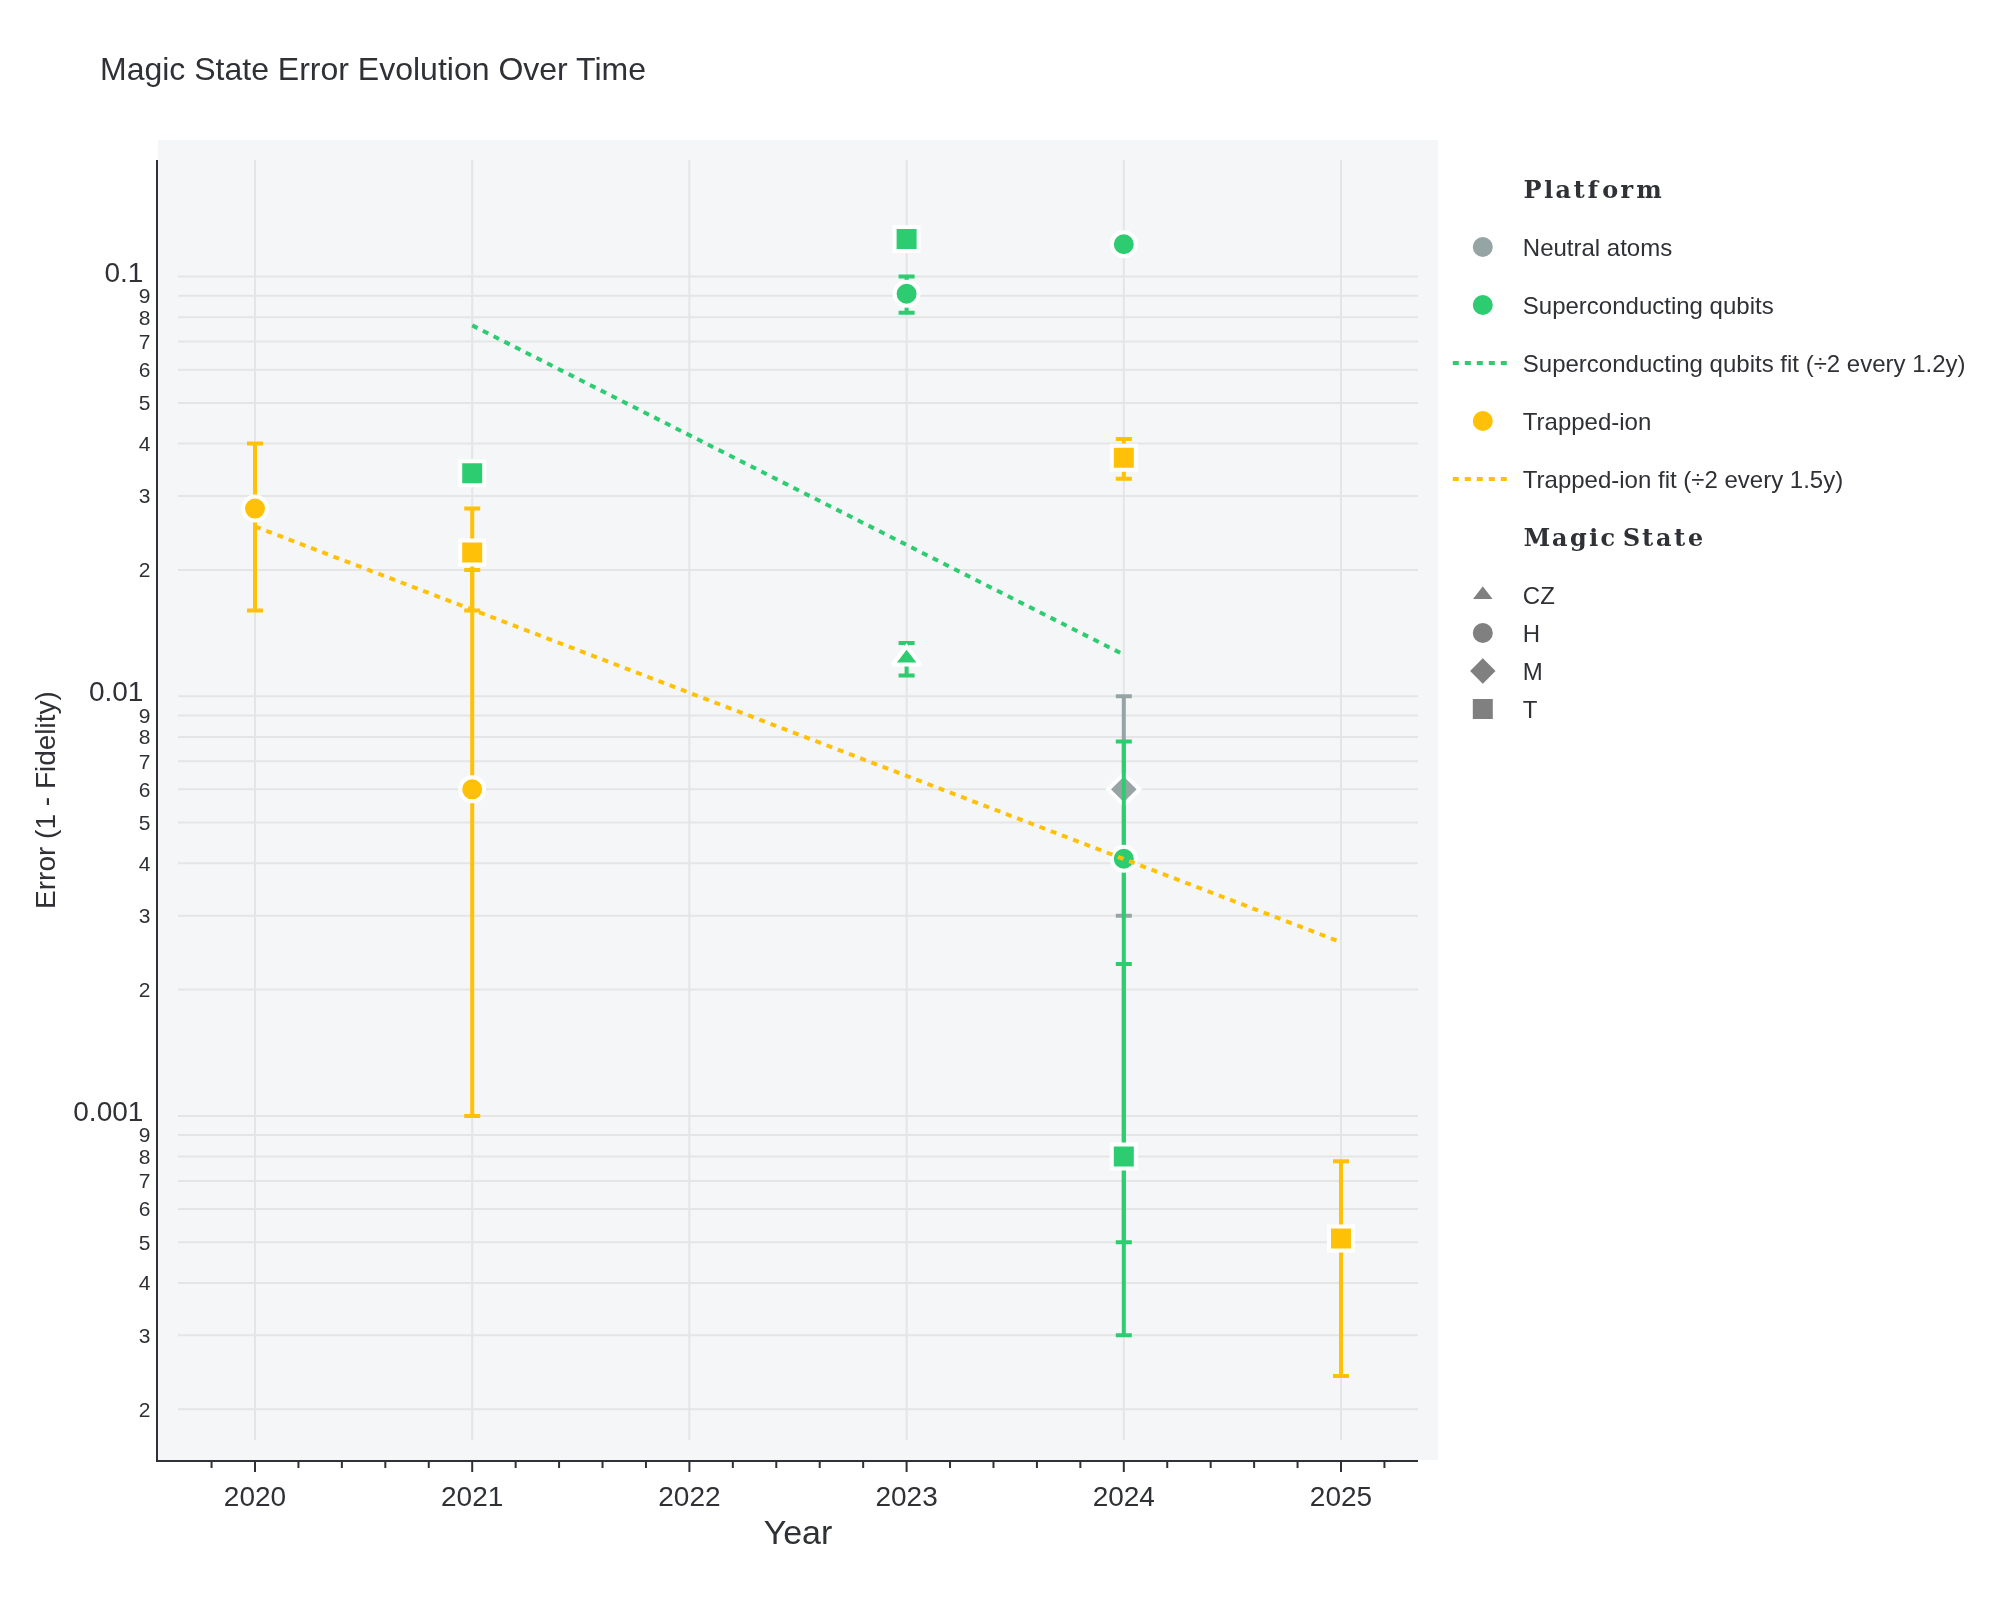
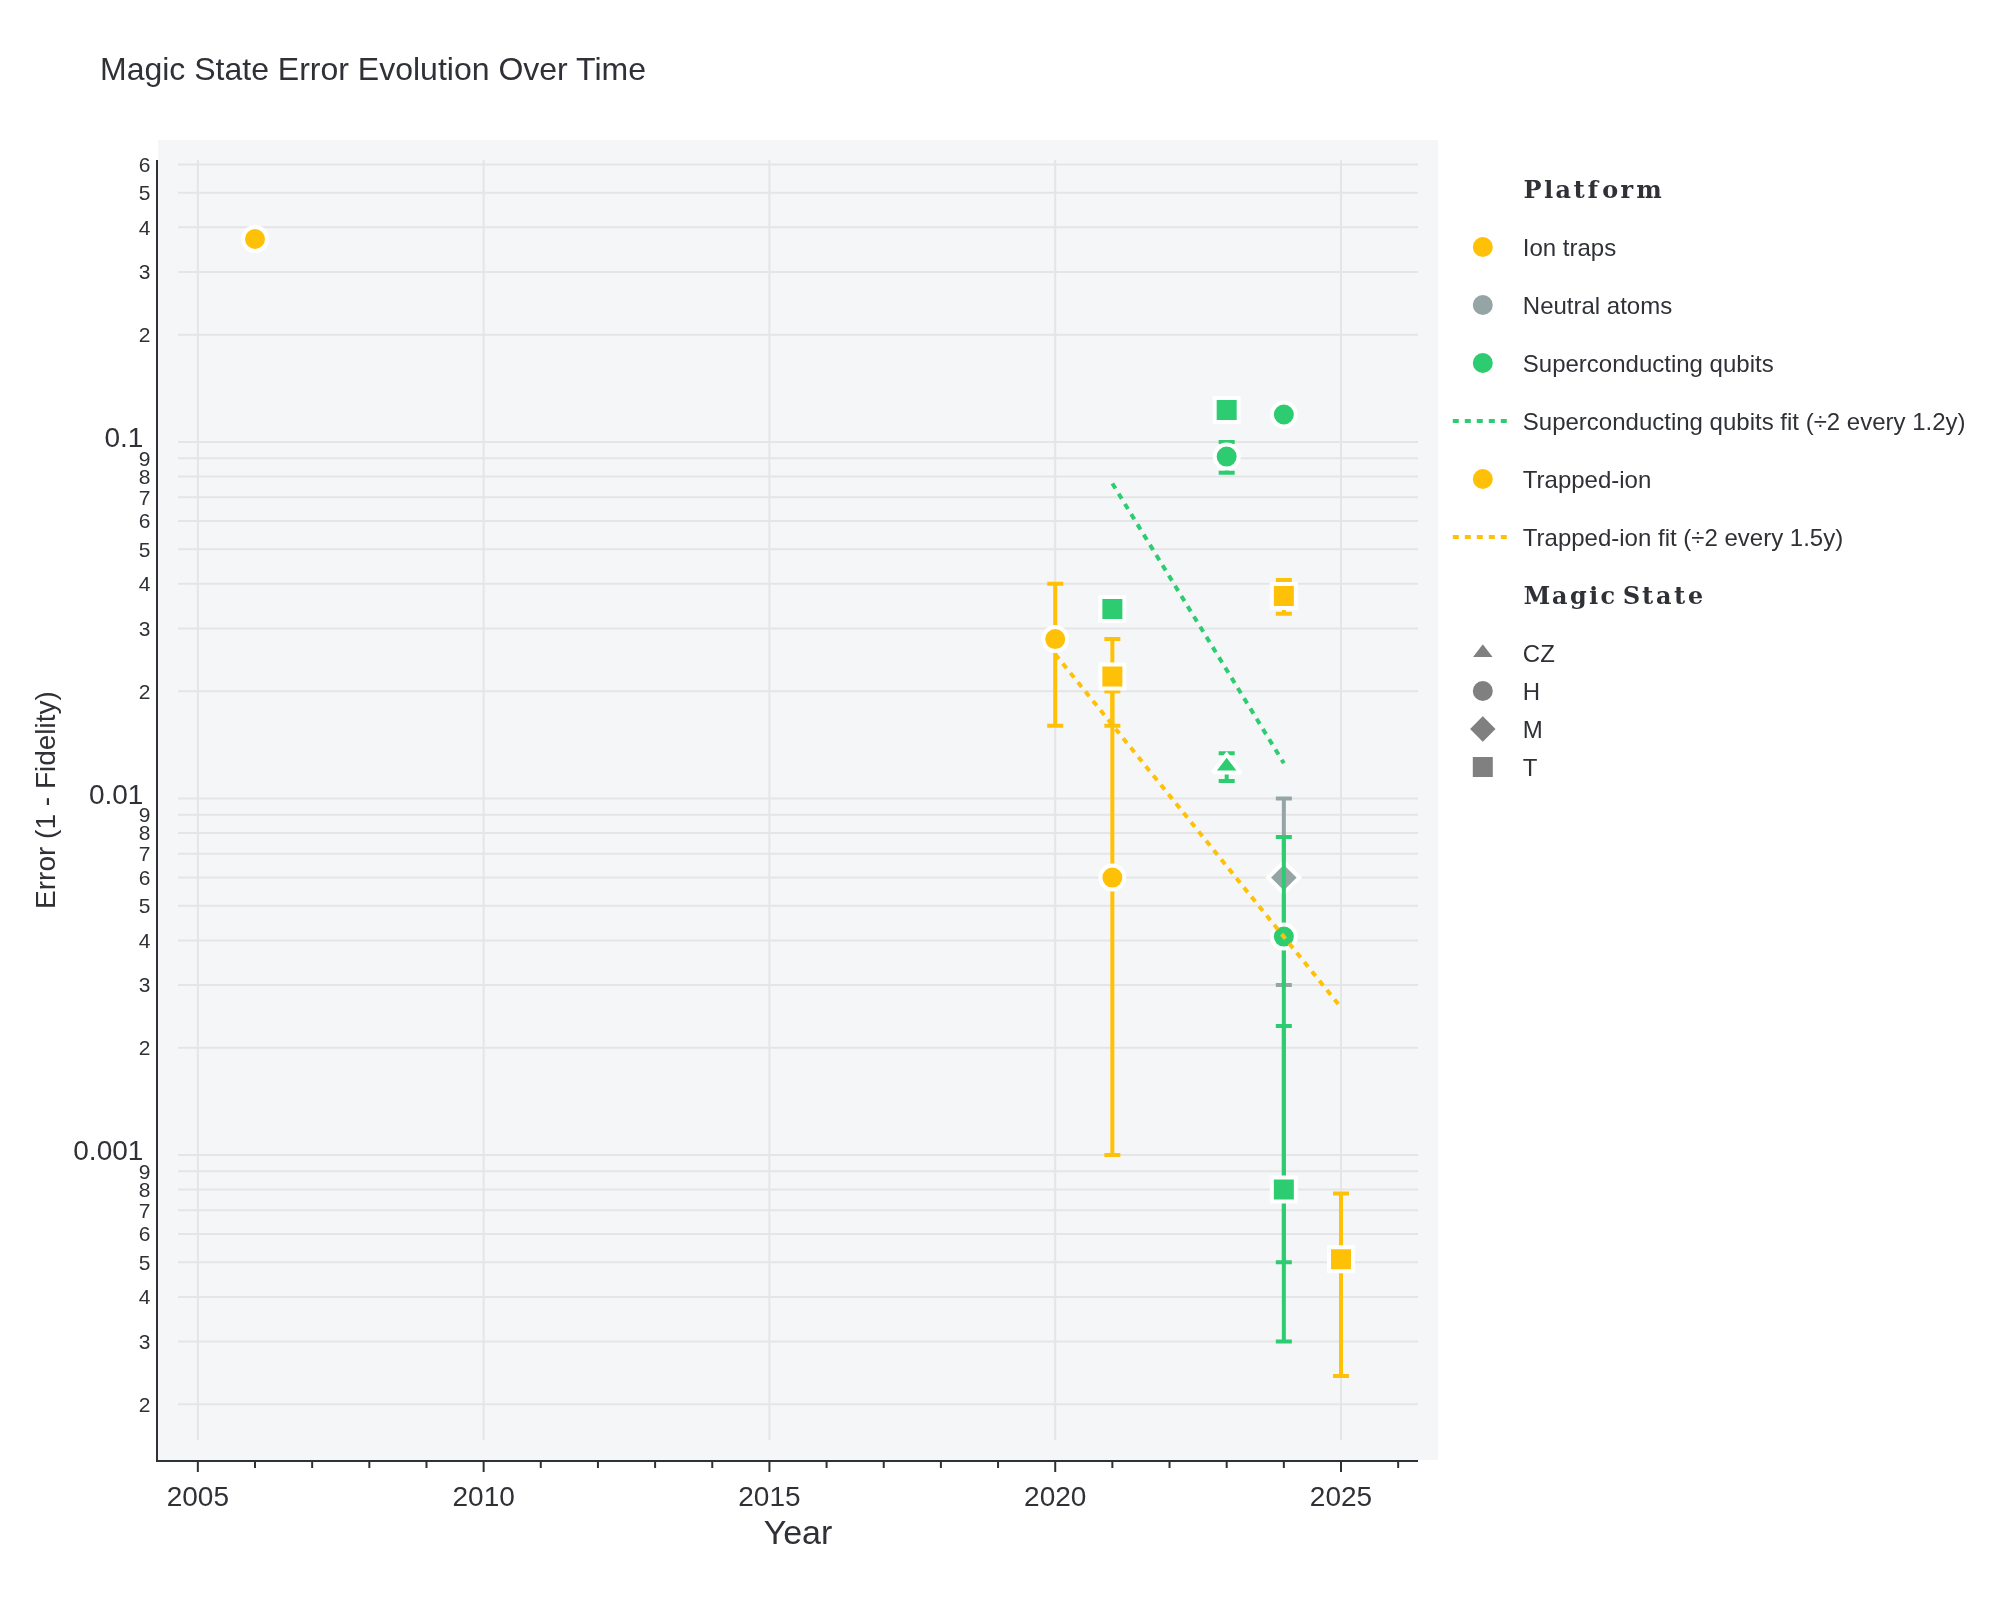
Update plots and README (#147)

diff --git a/out/js/msd_error_evolution_plot.js b/out/js/msd_error_evolution_plot.js
@@ -30,6 +30,95 @@ const msd_error_evolution_plotData = [
   {
     "customdata": [
       [
+        "",
+        "",
+        "Distillation",
+        "",
+        "https://doi.org/10.1038/nature05146"
+      ]
+    ],
+    "error_y": {
+      "array": [
+        0.015000000000000013
+      ],
+      "arrayminus": [
+        0.015000000000000013
+      ],
+      "color": "#FFC107",
+      "symmetric": false,
+      "thickness": 2,
+      "type": "data",
+      "width": 4
+    },
+    "hovertemplate": "<b>%{text}</b><br>Error: %{y:.4f}<br>Year: %{x}<br>Magic State: %{customdata[0]}<br>QEC Code: %{customdata[1]}<br>Experiment Type: %{customdata[2]}<br>Acceptance Rate: %{customdata[3]}%<br><a href='%{customdata[4]}' target='_blank'>Link</a><extra></extra>",
+    "legendgroup": "Ion traps",
+    "marker": {
+      "color": "#FFC107",
+      "line": {
+        "color": "white",
+        "width": 2
+      },
+      "size": 12,
+      "symbol": [
+        "circle"
+      ]
+    },
+    "mode": "markers",
+    "name": "Ion traps",
+    "showlegend": false,
+    "text": [
+      "Experimental purification of two-atom entanglement"
+    ],
+    "x": [
+      2006
+    ],
+    "y": [
+      0.371
+    ],
+    "type": "scatter",
+    "textfont": {
+      "family": "Arial"
+    },
+    "hoverlabel": {
+      "font": {
+        "family": "Arial"
+      }
+    }
+  },
+  {
+    "legendgroup": "Ion traps",
+    "legendrank": 1,
+    "marker": {
+      "color": "#FFC107",
+      "line": {
+        "color": "white",
+        "width": 2
+      },
+      "size": 12,
+      "symbol": "circle"
+    },
+    "mode": "markers",
+    "name": "Ion traps",
+    "showlegend": true,
+    "x": [
+      null
+    ],
+    "y": [
+      null
+    ],
+    "type": "scatter",
+    "textfont": {
+      "family": "Arial"
+    },
+    "hoverlabel": {
+      "font": {
+        "family": "Arial"
+      }
+    }
+  },
+  {
+    "customdata": [
+      [
         "|M>",
         "Steane",
         "Preparation and Distillation",
@@ -87,7 +176,7 @@ const msd_error_evolution_plotData = [
   },
   {
     "legendgroup": "Neutral atoms",
-    "legendrank": 1,
+    "legendrank": 2,
     "marker": {
       "color": "#95A5A6",
       "line": {
@@ -254,7 +343,7 @@ const msd_error_evolution_plotData = [
   },
   {
     "legendgroup": "Superconducting qubits",
-    "legendrank": 2,
+    "legendrank": 3,
     "marker": {
       "color": "#2ECC71",
       "line": {
@@ -284,7 +373,7 @@ const msd_error_evolution_plotData = [
     }
   },
   {
-    "legendrank": 3,
+    "legendrank": 4,
     "line": {
       "color": "#2ECC71",
       "dash": "dot",
@@ -423,7 +512,7 @@ const msd_error_evolution_plotData = [
   },
   {
     "legendgroup": "Trapped-ion",
-    "legendrank": 4,
+    "legendrank": 5,
     "marker": {
       "color": "#FFC107",
       "line": {
@@ -453,7 +542,7 @@ const msd_error_evolution_plotData = [
     }
   },
   {
-    "legendrank": 5,
+    "legendrank": 6,
     "line": {
       "color": "#FFC107",
       "dash": "dot",

diff --git a/README.md b/README.md
@@ -262,13 +262,13 @@ Magic states are crucial non-Clifford quantum states that enable universal fault
 - [Demonstration of fault-tolerant universal quantum gate operations](https://doi.org/10.1038/s41586-022-04721-1) (2021) - on Trapped-ion, QEC code: Steane, magic state: |H>, fidelity: 0.994-14+5, acceptance rate: 13.7%
 - [Logical Magic State Preparation with Fidelity beyond the Distillation Threshold on a Superconducting Quantum Processor](https://doi.org/10.1103/PhysRevLett.131.210603) (2023) - on Superconducting qubits, QEC code: Surface code, magic state: |H>, fidelity: 0.9090-9+9, acceptance rate: 73.41%
 - [Magic State Injection on IBM Quantum Processors Above the Distillation Threshold](https://arxiv.org/abs/2412.01446) (2024) - on Superconducting qubits, QEC code: Surface code, magic state: |H>, fidelity: 0.8806-2+2, acceptance rate: 36.3%
-- [Scaling and logic in the color code on a superconducting quantum processor](https://arxiv.org/abs/2412.14256) (2024) - on Superconducting qubits, QEC code: Steane, magic state: |H>, fidelity: 0.9959-37+38, acceptance rate: 74.6%, post-selected, Post-selected logical state tomography measurements
+- [Scaling and logic in the color code on a superconducting quantum processor](https://arxiv.org/abs/2412.14256) (2024) - on Superconducting qubits, QEC code: Steane, magic state: |H>, fidelity: 0.9959-37+38, acceptance rate: 74.6%, Post-selected logical state tomography measurements
 #### Magic State: |T>
 
 - [Logical-qubit operations in an error-detecting surface code](https://doi.org/10.1038/s41567-021-01423-9) (2021) - on Superconducting qubits, QEC code: Surface code, magic state: |T>, fidelity: 0.966, acceptance rate: <25%
 - [Realization of real-time fault-tolerant quantum error correction](https://doi.org/10.1103/PhysRevX.11.041058) (2021) - on Trapped-ion, QEC code: Steane, magic state: |T>, fidelity: 0.978-6+6, acceptance rate: 100%
 - [Logical Magic State Preparation with Fidelity beyond the Distillation Threshold on a Superconducting Quantum Processor](https://doi.org/10.1103/PhysRevLett.131.210603) (2023) - on Superconducting qubits, QEC code: Surface code, magic state: |T>, fidelity: 0.8771-9+9, acceptance rate: 73.41%
-- [Scaling and logic in the color code on a superconducting quantum processor](https://arxiv.org/abs/2412.14256) (2024) - on Superconducting qubits, QEC code: Steane, magic state: |T>, fidelity: 0.9992-15+3, acceptance rate: 75.2%, post-selected, Post-selected logical state tomography measurements
+- [Scaling and logic in the color code on a superconducting quantum processor](https://arxiv.org/abs/2412.14256) (2024) - on Superconducting qubits, QEC code: Steane, magic state: |T>, fidelity: 0.9992-15+3, acceptance rate: 75.2%, Post-selected logical state tomography measurements
 #### Magic State: |CZ>
 
 - [Encoding a magic state with beyond break-even fidelity](https://doi.org/10.1038/s41586-023-06846-3) (2023) - on Superconducting qubits, QEC code: Surface code, magic state: |CZ>, fidelity: 0.9877-11+11, acceptance rate: 17%
@@ -279,13 +279,13 @@ Magic states are crucial non-Clifford quantum states that enable universal fault
 
 #### Protocol: 4 to 2
 
-- [Experimental purification of two-atom entanglement](https://doi.org/10.1038/nature05146) (2006) - on Ion traps, protocol: 4 to 2, 9Be+ atomic ion qubits. Distillation: Two noisy entangled pairs were created and distilled into one higher-fidelity pair available for further use. Unpurified fidelity of 0.614 +- 0.0015, and a purified fidelity of 0.629 +- 0.0015
+- [Experimental purification of two-atom entanglement](https://doi.org/10.1038/nature05146) (2006) - on Ion traps, protocol: 4 to 2, fidelity: 0.629-15+15, 9Be+ atomic ion qubits. Distillation: Two noisy entangled pairs were created and distilled into one higher-fidelity pair available for further use. Unpurified fidelity of 0.614 +- 0.0015, and a purified fidelity of 0.629 +- 0.0015
 #### Protocol: 5 to 1
 
 - [Experimental Demonstration of Logical Magic State Distillation](https://arxiv.org/abs/2412.15165) (2024) - on Neutral atoms, QEC code: Steane, magic state: |M>, fidelity: 0.994-4+3, acceptance rate: 1%
 ### Code Switching
 
-- [Experimental fault-tolerant code switching](https://doi.org/10.1038/s41567-024-02727-2) (2024) - on Trapped-ion, QEC code: Steane -> [[10,1,2]], magic state: |T>, fidelity: 0.963-4+4, acceptance rate: 19%, post-selected
+- [Experimental fault-tolerant code switching](https://doi.org/10.1038/s41567-024-02727-2) (2024) - on Trapped-ion, QEC code: Steane -> [[10,1,2]], magic state: |T>, fidelity: 0.963-4+4, acceptance rate: 19%
 - [Experimental demonstration of high-fidelity logical magic states from code switching](https://doi.org/10.48550/arXiv.2506.14169) (2025) - on Trapped-ion, QEC code: [[15 ->1,3]], Steane, magic state: |T>, fidelity: 0.99949-27+27, acceptance rate: 82.58%
 ## Entangled State Error
 
